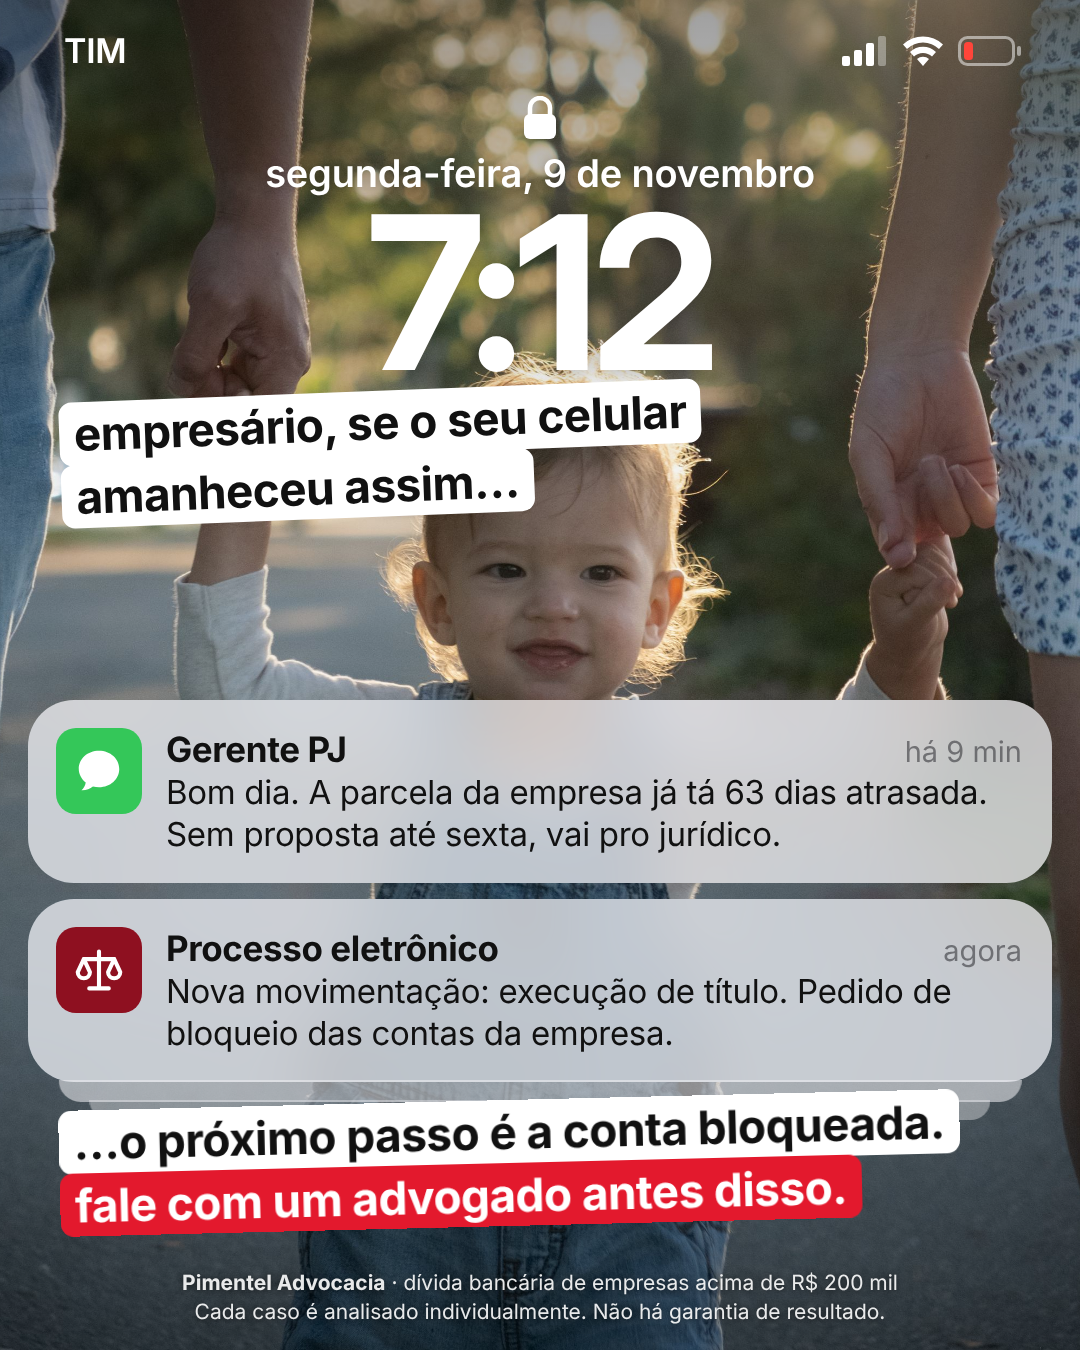
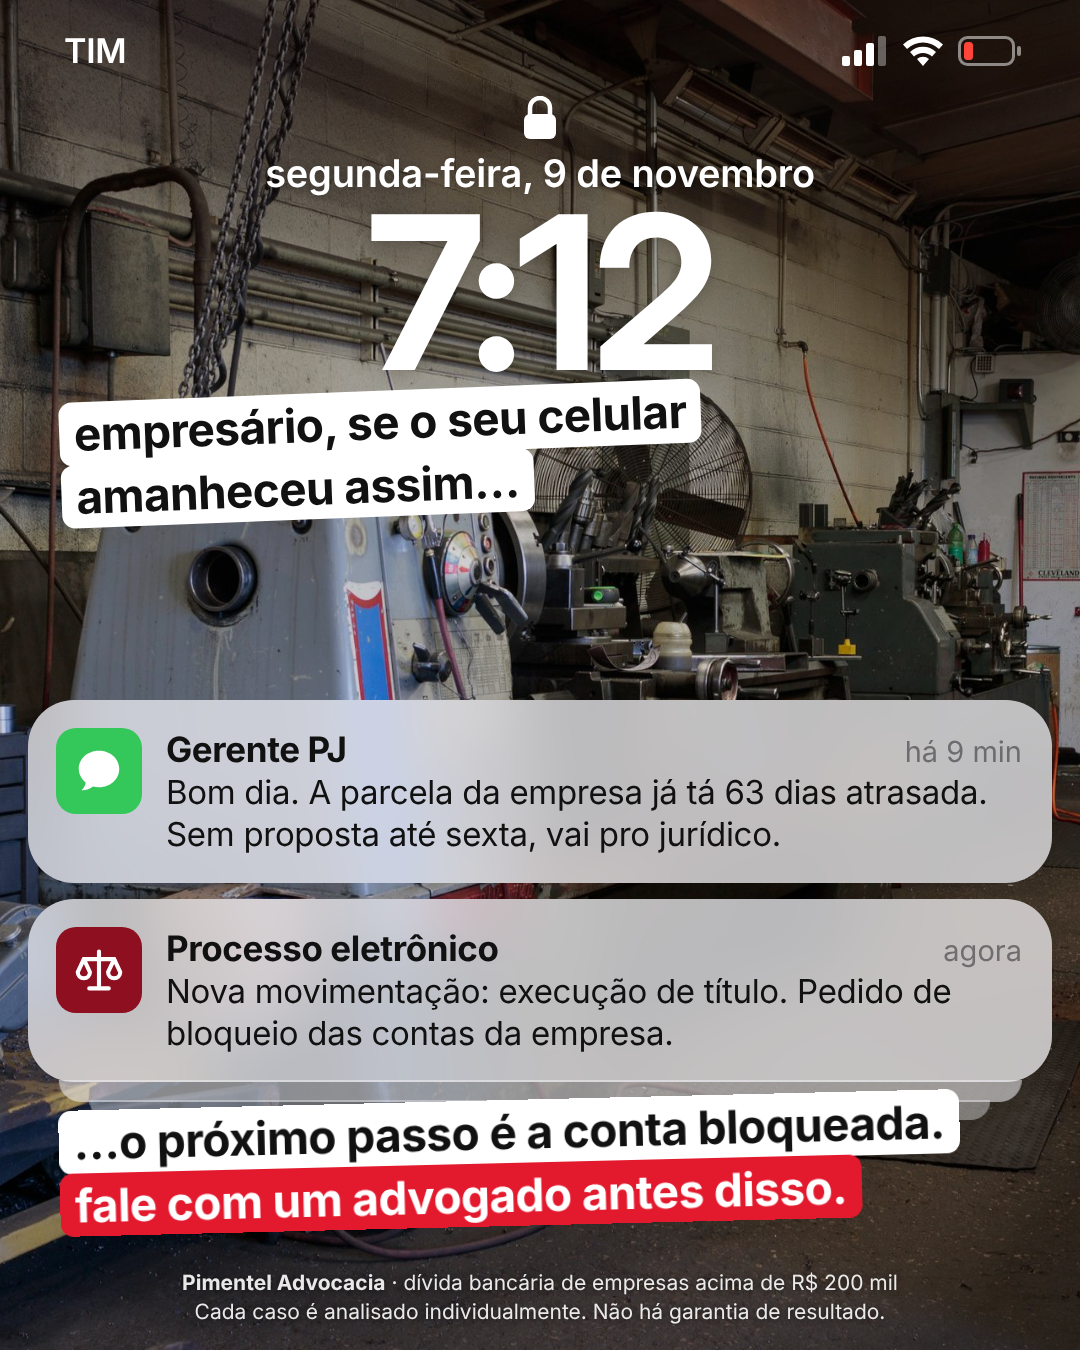
Troca foto do bebê por foto de oficina no estático 01
Claude-Session: https://claude.ai/code/session_01C88VYTn9uE2q8X87geNdst

diff --git a/estaticos/thiago-pimentel/src/estatico-01-notificacoes.html b/estaticos/thiago-pimentel/src/estatico-01-notificacoes.html
@@ -10,10 +10,10 @@
     -webkit-font-smoothing:antialiased}
 
   /* papel de parede (foto real) */
-  .wall{position:absolute;inset:0;background:url(assets/wallpaper-familia.jpg) no-repeat;
-    background-size:1300px auto;background-position:-110px -590px}
+  .wall{position:absolute;inset:0;background:url(assets/wallpaper-oficina.jpg) no-repeat;
+    background-size:auto 1350px;background-position:-445px 0}
   .wall::after{content:"";position:absolute;inset:0;
-    background:linear-gradient(rgba(0,0,0,.38),rgba(0,0,0,.05) 32%,rgba(0,0,0,0) 55%,rgba(0,0,0,.35) 100%)}
+    background:linear-gradient(rgba(0,0,0,.5),rgba(0,0,0,.2) 34%,rgba(0,0,0,.12) 55%,rgba(0,0,0,.45) 100%)}
 
   /* barra de status */
   .status{position:absolute;top:30px;left:64px;right:58px;display:flex;justify-content:space-between;align-items:center;
@@ -59,7 +59,7 @@
 
   /* ===== versão 9:16 (stories/reels) ===== */
   html.story,html.story body{height:1920px}
-  html.story .wall{background-size:2100px auto;background-position:-500px -1230px}
+  html.story .wall{background-size:auto 1920px;background-position:-806px 0}
   html.story .lockico{top:110px} html.story .date{top:168px} html.story .clock{top:206px;font-size:236px}
   html.story .t1{top:470px}
   html.story .stack{top:860px}

diff --git a/estaticos/thiago-pimentel/README.md b/estaticos/thiago-pimentel/README.md
@@ -10,7 +10,7 @@ Dois estáticos para a conta **CA - Gestão de Passivo PJ**, focados em empresá
 | 02: Nota "Plano pra salvar a empresa" | `estatico-02-refem-do-banco-4x5.png` | `estatico-02-refem-do-banco-9x16.png` |
 
 ## 01: tela de bloqueio às 7:12
-Tela de bloqueio com a foto do filho de papel de parede e a bateria no fim. Aparecem a mensagem do gerente ("63 dias atrasada, sem proposta até sexta vai pro jurídico") e a notificação do processo ("pedido de bloqueio das contas da empresa").
+Tela de bloqueio com a foto da própria empresa (uma oficina/metalúrgica) de papel de parede e a bateria no fim. Aparecem a mensagem do gerente ("63 dias atrasada, sem proposta até sexta vai pro jurídico") e a notificação do processo ("pedido de bloqueio das contas da empresa").
 Texto stories: "empresário, se o seu celular amanheceu assim… …o próximo passo é a conta bloqueada. **fale com um advogado antes disso.**"
 
 - **Título:** Seu celular amanheceu assim?
@@ -30,7 +30,7 @@ Não há promessa de resultado nem percentual de desconto. A linguagem é de pos
 As interfaces de celular são genéricas: nenhuma marca de banco, nenhum logo de app real. Remetentes genéricos ("Gerente PJ", "Processo eletrônico").
 
 ## Créditos
-Foto do papel de parede do estático 01: Pexels (foto 21356382), licença gratuita que permite uso comercial sem atribuição.
+Foto do papel de parede do estático 01: Pexels (foto 18569750, oficina/metalúrgica), licença gratuita que permite uso comercial sem atribuição.
 
 ## Como editar
 Os fontes ficam em `src/` (HTML + `assets/`). Para mudar um texto ou o valor mínimo, edite o HTML e renderize de novo:
